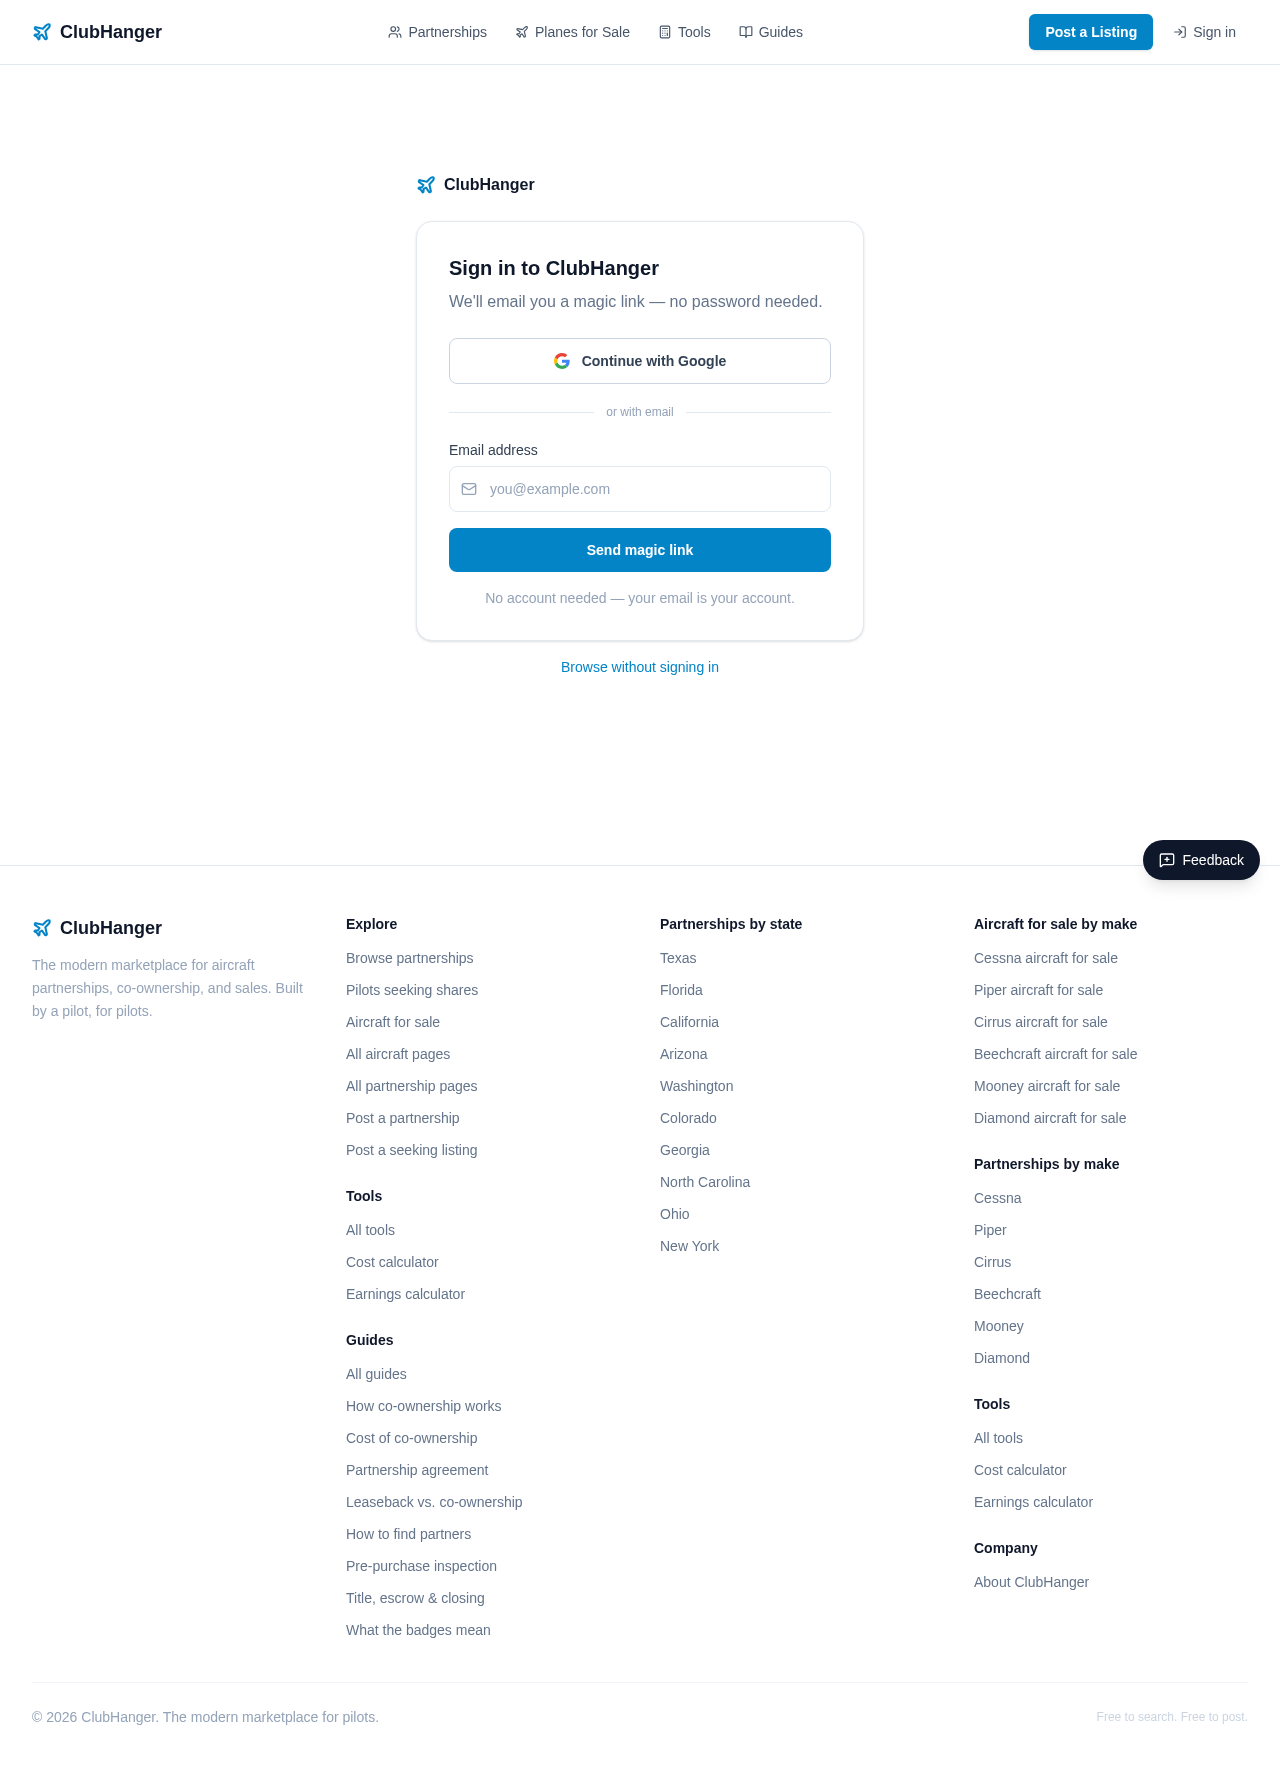
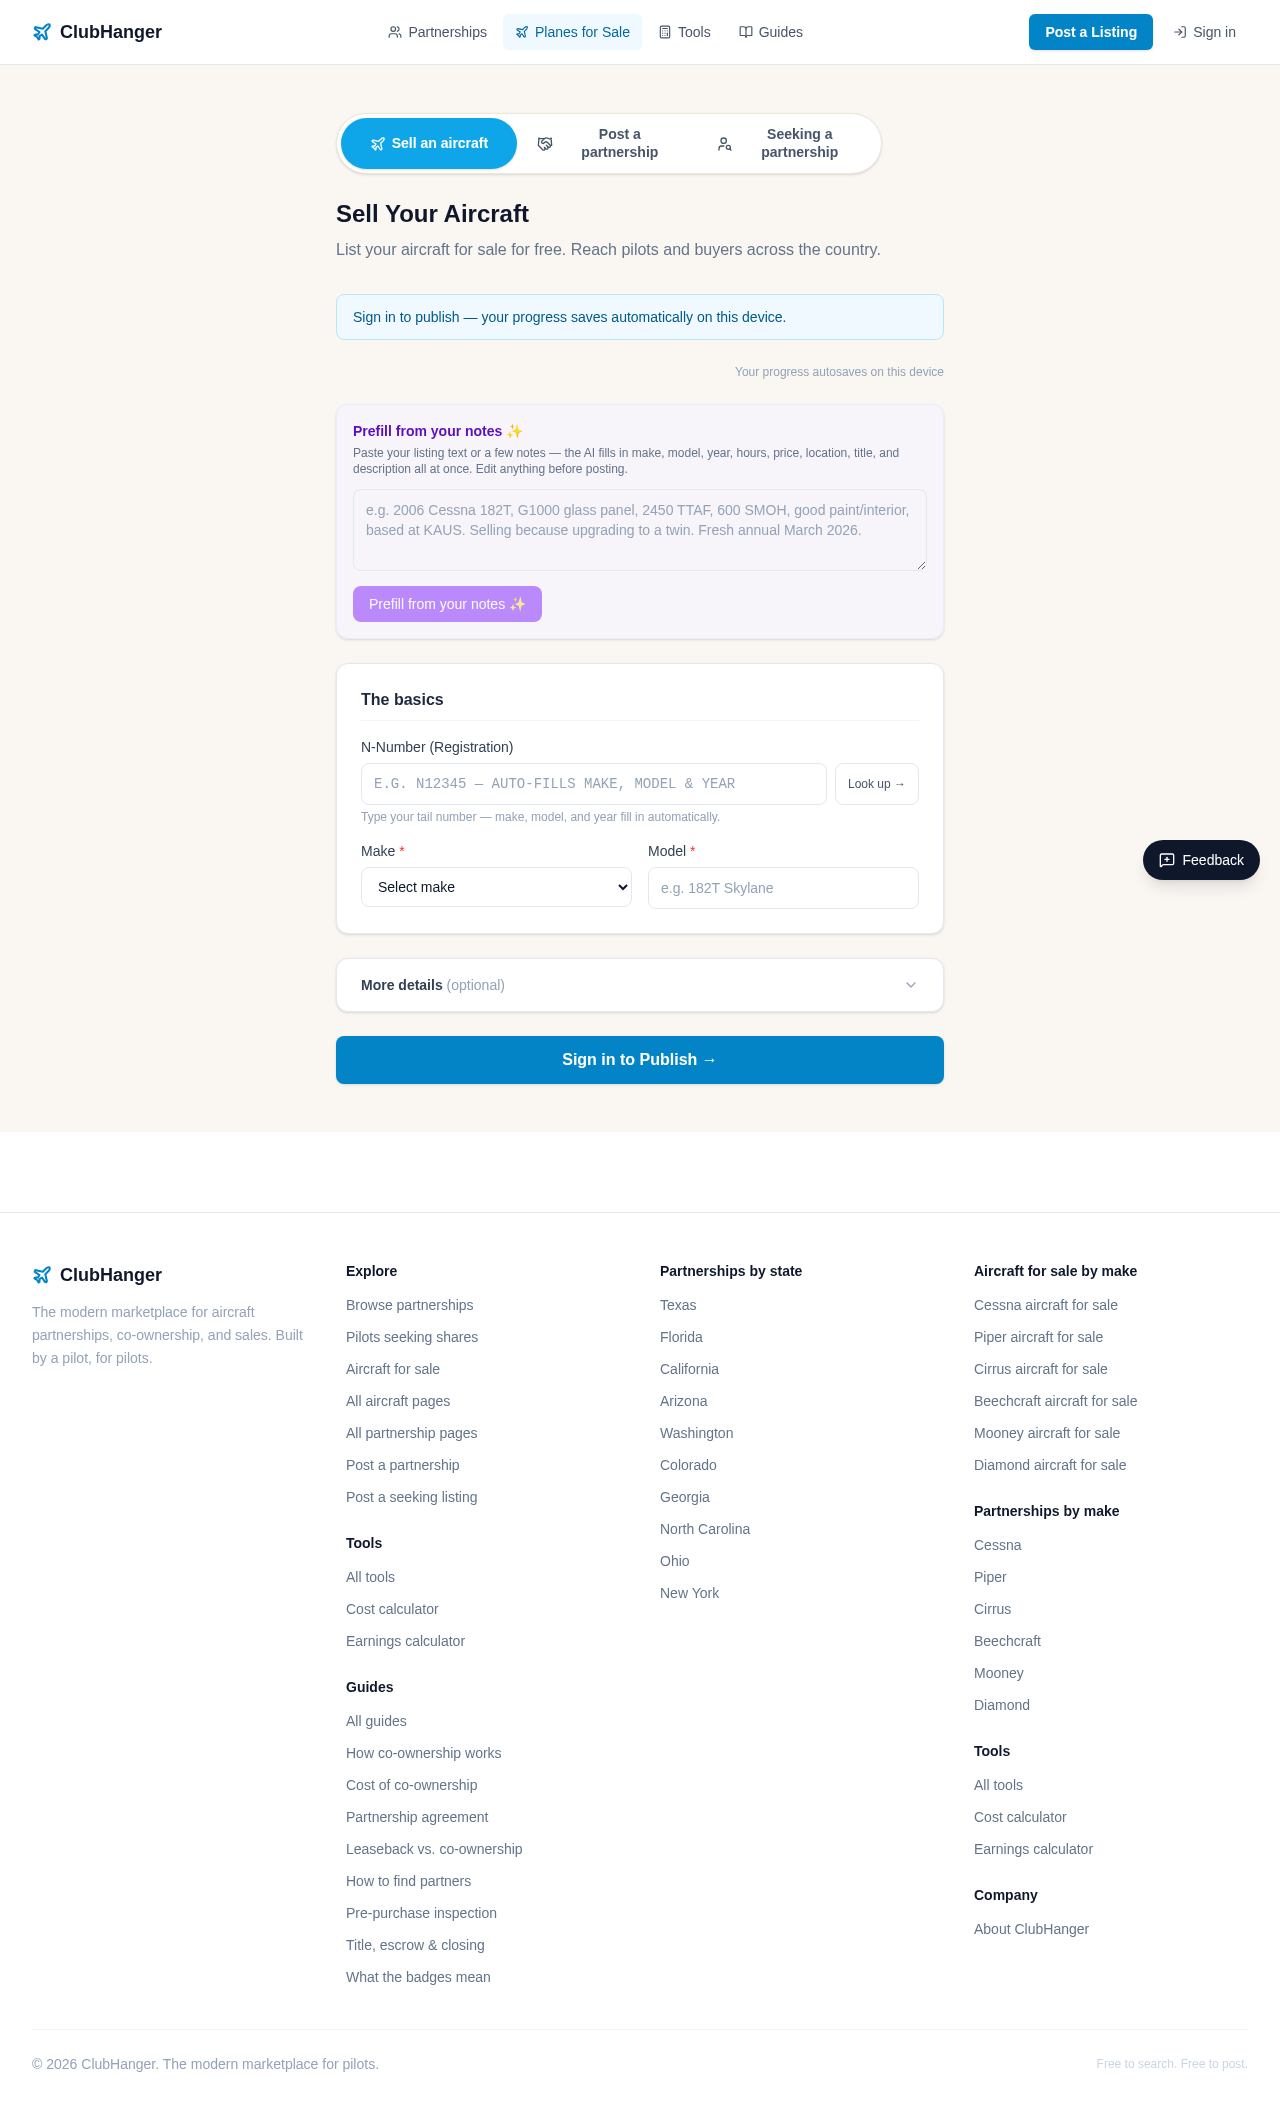
logs(nightshift): PASS nnumber-autofill — N-number auto-fill at top of aircraft post form

diff --git a/nightshift/specs/20260627T135412Z-nnumber-autofill.md b/nightshift/specs/20260627T135412Z-nnumber-autofill.md
@@ -1,0 +1,36 @@
+# Spec: nnumber-autofill
+
+**UTC:** 2026-06-27T135412Z  
+**Pillar:** 1 — Frictionless listing posting  
+**Slug:** nnumber-autofill
+
+## Goal
+Surface the N-number field at the top of the aircraft post form and auto-trigger the FAA lookup on blur, so typing a tail number automatically fills Make, Model, and Year — no button click, no accordion expansion required.
+
+## Problem
+The `/api/faa-lookup` route exists and the "Look up →" button is wired up, but the N-number field is buried in the collapsed "More details" accordion. Users posting an aircraft still have to manually type Make, Model, and Year even though the FAA registry can fill them in instantly. Three required/frequent fields replaced by one — but only if the user discovers the lookup.
+
+## Scope
+One file changed: `src/components/PostAircraftForm.tsx`
+
+- Move the N-number (Registration) row OUT of "More details" INTO "The basics" section, above the Make/Model grid.
+- Add `onBlur` auto-trigger: when the field loses focus (and has a non-empty value), call `handleLookup()` automatically — no button press needed.
+- Keep the "Look up →" button for explicit re-triggering (e.g. user changes the N-number).
+- Show an inline status message ("Searching…" / "Found: 2006 Cessna 182T" / "Not found — fill in manually") below the N-number input.
+- After a successful lookup, auto-open "More details" (already exists) so Year is visible + pre-filled.
+- Remove the N-number input from "More details" to avoid duplication.
+
+## Acceptance criteria
+1. On `/aircraft/new`, the N-number field is visible without expanding the accordion.
+2. Typing a valid N-number (e.g. N12345) and pressing Tab triggers the FAA lookup automatically — no button click needed.
+3. A successful lookup fills the Make dropdown and Model input in "The basics" section, and fills Year in "More details" (which auto-opens).
+4. The status message shows "Found: <year> <make> <model>" in green on success, and "Not found — fill in manually" in slate on failure.
+5. The "Look up →" button still works for explicit re-lookup (e.g. after changing the N-number).
+6. Make and Model remain required fields (pre-filled by lookup, still editable).
+7. The N-number field does NOT appear twice (removed from "More details").
+
+## Out of scope
+- Serial number lookup (FAA doesn't return serial)
+- Changing the Make dropdown options
+- Any schema or server-action changes
+- Changes to any other file

diff --git a/nightshift/CHANGELOG.md b/nightshift/CHANGELOG.md
@@ -2,6 +2,15 @@
 
 Newest first. One entry per cycle. The loop appends here; you read it over coffee.
 
+## 2026-06-27T135412Z — PASS — nnumber-autofill
+- Pages: /aircraft/new
+- What: **Sellers on the "Sell Your Aircraft" form can now type their tail number at the top of the form and have Make, Model, and Year fill in automatically.** Previously, the N-number (registration) field and its "Look up →" button were buried inside the collapsed "More details" accordion — sellers still had to manually type Make and Model (required fields) even though the FAA registry lookup already existed. Now the N-number field is the first field in "The basics" section, above Make and Model, with placeholder text "auto-fills make, model & year." When the seller types a tail number (e.g. N12345) and tabs away, the form automatically calls `/api/faa-lookup`, fills the Make dropdown and Model input, and opens "More details" to show the pre-filled Year — no button click needed. The "Look up →" button remains for explicit re-lookup. A `relatedTarget` guard prevents a double lookup when the button is clicked directly from the input. One file changed: `src/components/PostAircraftForm.tsx` (N-number row moved from "More details" to "The basics"; `onBlur` auto-trigger added; `data-lookup` guard on button; N-number removed from the "More details" accordion).
+- Goal: posting pillar (Pillar 1) — removes the single biggest friction on the aircraft post form. Make, Model, and Year are required-or-frequent fields that any N-number owner can fill in one typed value instead of three separate fields. The lookup existed but was invisible; surfacing it at the top of the form turns it into the primary filling path. Friction removed: 3 fields → 1 field + auto-fill for any seller who knows their tail number. Rotating to Pillar 1 (last two cycles were Pillar 3 and Pillar 2).
+- Spec: nightshift/specs/20260627T135412Z-nnumber-autofill.md
+- Verdict: PASS. `npx next build` compiled clean (exit 0, zero TypeScript errors, 324 pages). QA smoke (`next start` production build on port 3038, `PLAYWRIGHT_BROWSERS_PATH=~/.cache/ms-playwright`) exit 0 on `/aircraft/new` at desktop 1280 + mobile 375 (2/2 — HTTP 200, zero app-origin console errors, zero horizontal overflow). Visual cycle: screenshots read — `/aircraft/new` renders cleanly at both viewports; "The basics" section shows N-Number (Registration) field at top with AUTO-FILL placeholder and "Look up →" button; helper text below; Make dropdown and Model input below; "More details (optional)" accordion collapsed; "Sign in to Publish →" button; no layout issues at 375px.
+- Screenshots: nightshift/screenshots/nnumber-autofill/
+- Next: (1) Pillar 2: shorten signup form / improve post-signup flow — magic-link users have no `full_name` metadata, so contact-prefill's name pre-fill is blank for them; consider collecting display name on first post or lazy profile step. (2) Pillar 3: comparable listings near you / market position module on listing detail pages — DealScorePanel + EstimatePanel cover value analysis; the remaining gap is a "N similar {make} {model} listed near {airport}" proximity module. (3) Pillar 1: "Paste & prefill" already ships via AI; the remaining P1 posting item is autosave adoption on the seeking form (already has `useFormDraft` in partnership form; wire it to `/partnerships/seeking/new`).
+
 ## 2026-06-27T134531Z — PASS — share-cost-toggle
 - Pages: /aircraft/listing/[id]
 - What: **The "Cost to own" panel on aircraft listing detail pages is now interactive.** Previously the panel showed a static 4-row table (Full ownership / 1/2 / 1/3 / 1/4 share) with monthly and annual costs — buyers had to read all four rows and mentally focus on their scenario. Now four toggle pill buttons ("Sole owner", "1/2 share", "1/3 share", "1/4 share") sit at the top of the panel. Clicking one highlights that scenario with a prominent featured callout (large monthly + annual figures in a sky-50 callout box) and highlights the corresponding table row (sky-50 background, bold monthly figure). Table rows are also directly clickable. Default is "Sole owner." The underlying cost model (insurance ≈ 1% of price, hangar $7,500/yr, annual $2,500/yr, engine reserve when available) is unchanged. 2 files changed: new `src/components/ShareCostPanel.tsx` (Client Component — `useState` for selected share, toggle pills, featured callout, clickable table rows, same "Run your own numbers" + "Find a co-owner" links); `src/app/aircraft/listing/[id]/page.tsx` (import new component, remove inline `ShareCostPanel` function, remove unused `Wallet` import).